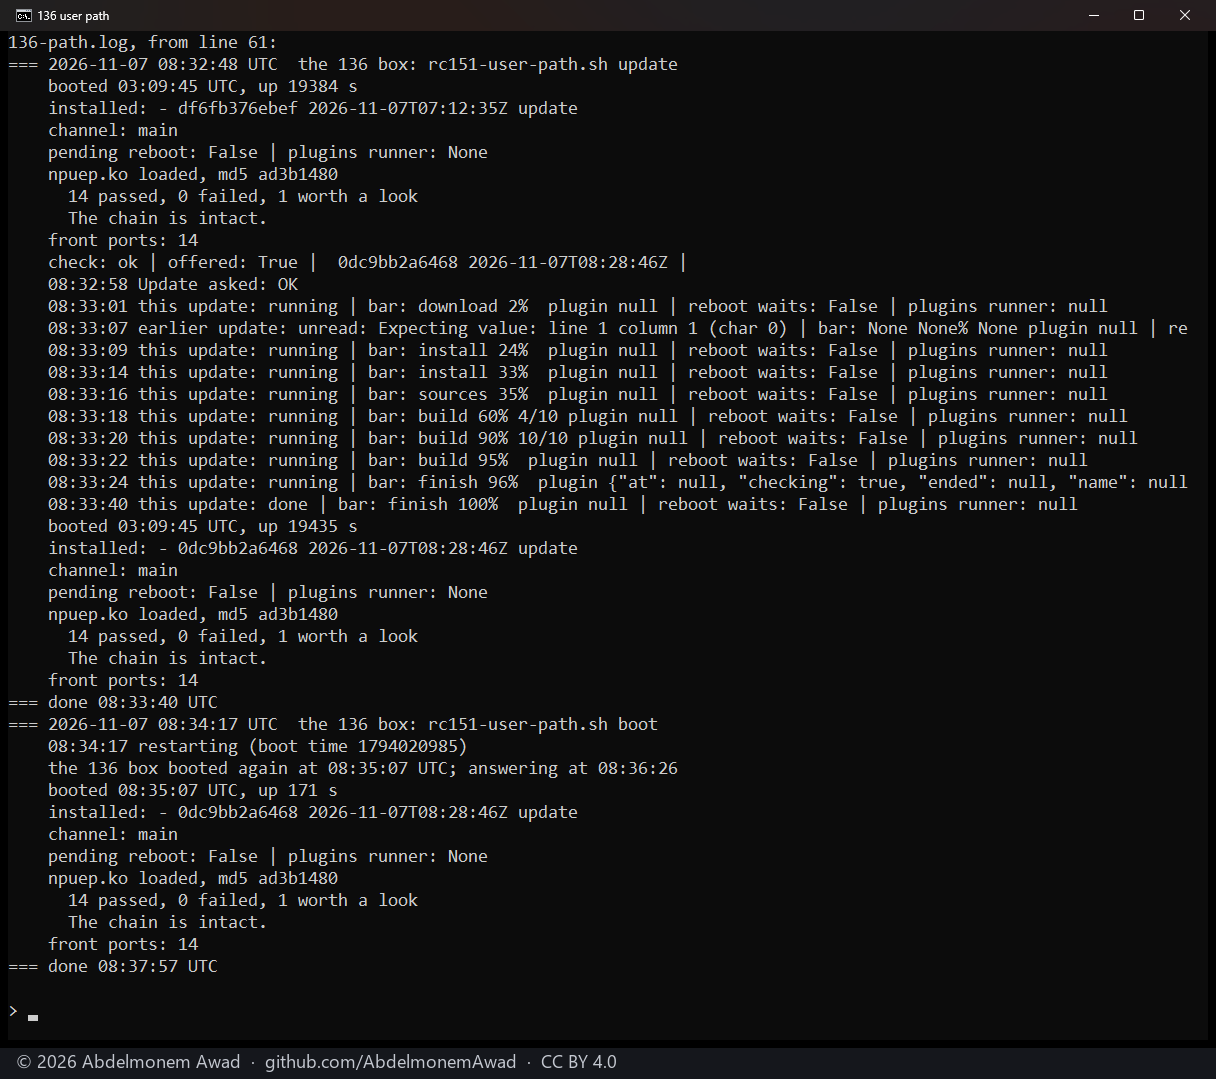
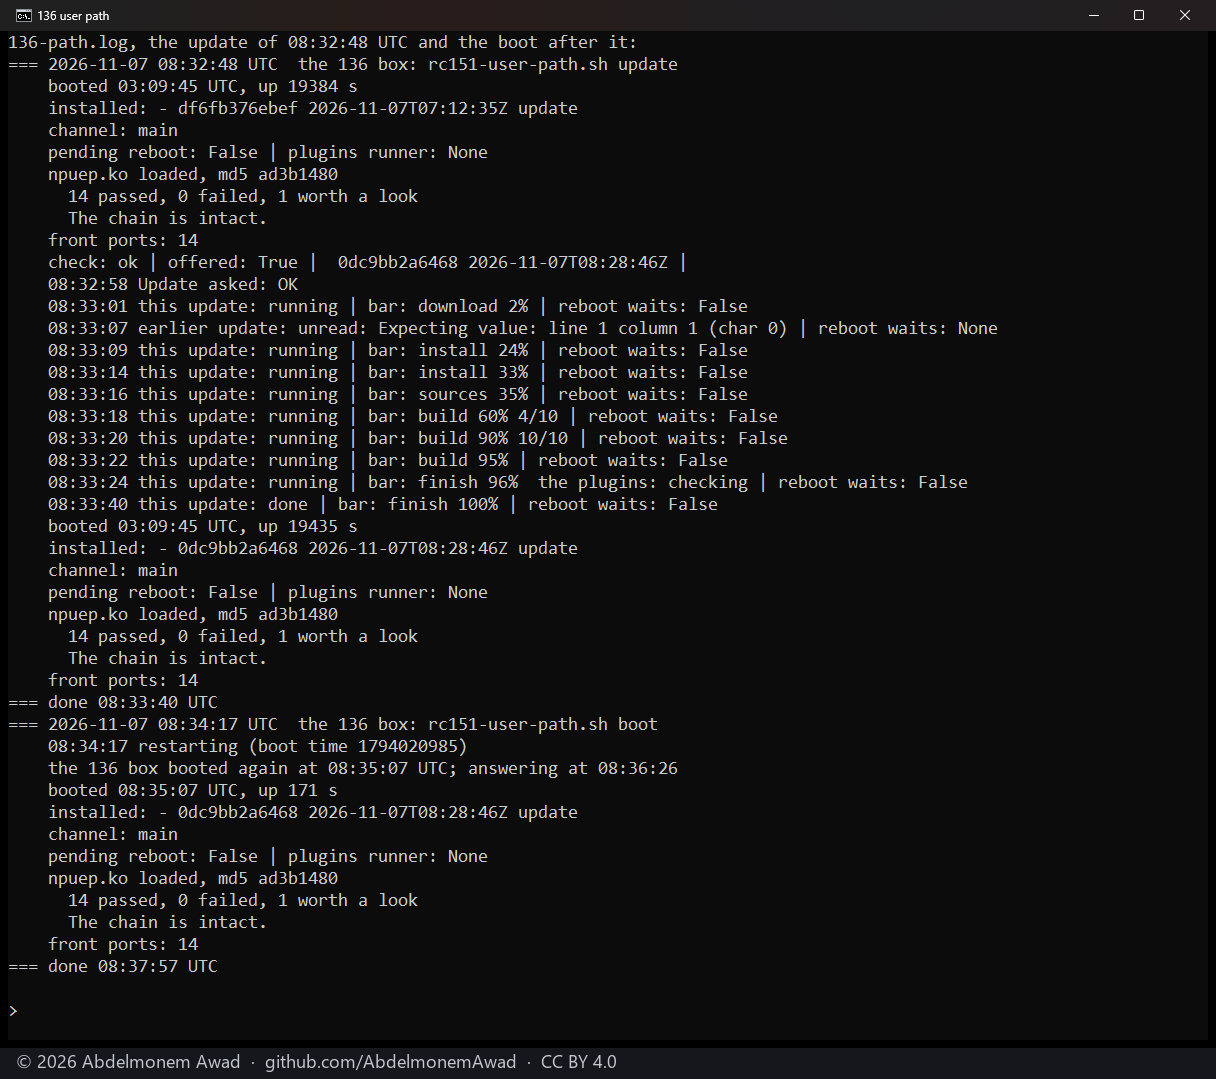
Measurements: the plugins' first signed releases, and photographs with their lines whole (#1139)
- **The plugins' first signed releases** (docs/measurements/signed-plugin-releases-2026-11-07.md, a section of its own): os-netreport 1.0.6 and eight more, published from 11:44 to 12:15 UTC, each signed by the owner's signing repository; the two faults of their release workflows on the way (a signing whose start had failed while the run said success, now fixed in the eleven plugins; seven signings started at once, four left drafts until one look signed them); and the three lab appliances taking them through the Plugins tab, each plugin then checking the published release with the release key. Two photographs.
- **Photographs with every value whole:** four photographs of the check before 0.1.0-alpha.15.1 (01, 02, 03 and 05) cut their longest lines at the window's edge, hashes and all. They are taken again at the same size and font; what repeats on every line and holds no value - "plugin null", "plugins runner: null" - is left out of the picture instead, and the logs they show are unchanged.

Tested: check-doc-links, check-doc-references, docs-index --check, images-index --check, mark-images --check and check-private-data pass; each photograph read at full size.

Changed region(s): [[0.4062, 0.2753, 0.9688, 0.4893], [0.125, 0.0306, 0.5, 0.0612]]

diff --git a/docs/images/README.md b/docs/images/README.md
@@ -19,10 +19,10 @@ to a new image, and the checks fail on one without them.
 |---|---|---|
 | [screens/](screens/) | The web interface, page by page, in English and in Arabic | 81 |
 | [hardware/](hardware/) | Photographs and drawings of the appliances, one folder each | 41 |
-| [measurements/](measurements/) | Each measurement's photographs, in a folder named after its page | 746 |
+| [measurements/](measurements/) | Each measurement's photographs, in a folder named after its page | 748 |
 | [readme/](readme/) | The README's banner and status board, drawn by tools/readme-art.py | 6 |
 
-913 images in all.
+915 images in all.
 
 ## The web interface
 
@@ -1228,7 +1228,7 @@ The page: [shaper-3300-2026-10-20.md](../measurements/shaper-3300-2026-10-20.md)
 | [01-before.png](measurements/shaper-3300-2026-10-20/01-before.png) | Before: a 100 Mbit/s shaper, the stream in hardware at 8,816 Mbit/s | [shaper-3300-2026-10-20.md](../measurements/shaper-3300-2026-10-20.md) |
 | [02-after.png](measurements/shaper-3300-2026-10-20/02-after.png) | After: the same shaper, the stream with the host at 99.5 Mbit/s | [shaper-3300-2026-10-20.md](../measurements/shaper-3300-2026-10-20.md) |
 
-### measurements/signed-plugin-releases-2026-11-07/ (9)
+### measurements/signed-plugin-releases-2026-11-07/ (11)
 
 The page: [signed-plugin-releases-2026-11-07.md](../measurements/signed-plugin-releases-2026-11-07.md).
 
@@ -1243,6 +1243,8 @@ The page: [signed-plugin-releases-2026-11-07.md](../measurements/signed-plugin-r
 | [07-all-eleven-installed-as-signed-first-3300.png](measurements/signed-plugin-releases-2026-11-07/07-all-eleven-installed-as-signed-first-3300.png) | All eleven plugins installed as signed | [signed-plugin-releases-2026-11-07.md](../measurements/signed-plugin-releases-2026-11-07.md) |
 | [08-a-plugin-not-here-not-signed-yet-first-3300.png](measurements/signed-plugin-releases-2026-11-07/08-a-plugin-not-here-not-signed-yet-first-3300.png) | A plugin that is not here, whose latest release is not signed: listed with the reason, Install not offered | [signed-plugin-releases-2026-11-07.md](../measurements/signed-plugin-releases-2026-11-07.md) |
 | [09-a-plugin-not-here-installed-as-signed-first-3300.png](measurements/signed-plugin-releases-2026-11-07/09-a-plugin-not-here-installed-as-signed-first-3300.png) | The same plugin installed by Install from its signed archive | [signed-plugin-releases-2026-11-07.md](../measurements/signed-plugin-releases-2026-11-07.md) |
+| [10-nine-releases-taken-by-the-three.png](measurements/signed-plugin-releases-2026-11-07/10-nine-releases-taken-by-the-three.png) | The three lab appliances taking the nine releases by Update all: each plugin at its release's commit | [signed-plugin-releases-2026-11-07.md](../measurements/signed-plugin-releases-2026-11-07.md) |
+| [11-new-self-update-checks-the-release-key.png](measurements/signed-plugin-releases-2026-11-07/11-new-self-update-checks-the-release-key.png) | Each appliance's new self-update.py of three plugins, asked to check: the release installed, its signature verified with the release key, the one key it carries | [signed-plugin-releases-2026-11-07.md](../measurements/signed-plugin-releases-2026-11-07.md) |
 
 ### measurements/signed-releases-2026-11-07/ (5)
 

diff --git a/docs/measurements/signed-plugin-releases-2026-11-07.md b/docs/measurements/signed-plugin-releases-2026-11-07.md
@@ -145,3 +145,31 @@ Afterwards os-portguard v1.0.1 was installed again from its tag, and its `self-u
 it had been, by its MD5. The lab's files, places and key were taken away, and main's `plugins.py` was
 put back. Without an appliance, `tools/test-plugin-install.py` runs 20 checks of the same, with
 throwaway keys.
+
+## The releases
+
+The same day nine of them were released, each signed with the release key: os-netreport 1.0.6, os-fanctl
+1.1.7, os-frontpanel 1.0.7, os-linkhealth 1.0.8, os-watchdog 1.0.3, os-kernelfollow 1.0.4, os-blocklists
+1.0.2, os-portguard 1.0.2 and os-fallbackcrypto 1.0.2, published from 11:44 to 12:15 UTC. Each release's
+workflow built its package and made the release a draft; the owner's signing repository signed it and
+published it, its archive, its manifest and the manifest's signature beside the package. opnsense-arabic
+and opnsense-rtl carry the same change and have no release of it yet.
+
+Two faults on the way, both in the release workflows, none in what an appliance runs:
+
+- os-netreport's run started no signing and still said success: `gh workflow run` asked for the signing
+  repository's default branch, which its token may not read. Its signing was started by hand; in all
+  eleven plugins the start now names the branch, and a start that fails fails the run.
+- Seven tags pushed within a minute started seven signings. The signing repository signs one at a time,
+  and GitHub keeps only the newest of the runs waiting, so four releases stayed drafts until one look over
+  the family signed them, at 12:15.
+
+Then each lab appliance took them through XGS: Updates' Plugins tab, Check and Update all: nine plugins in
+65 s on each XGS 3300, eight in 59 s on the XGS 136, which has no front panel. What was installed ran the
+`self-update.py` from before signed releases, so each took its release the old way, once. Afterwards each
+plugin carries the release key, and its new `self-update.py`, asked to check, verifies the published release
+with it.
+
+![The three lab appliances taking the nine releases by Update all: each plugin at its release's commit](../images/measurements/signed-plugin-releases-2026-11-07/10-nine-releases-taken-by-the-three.png)
+
+![Each appliance's new self-update.py of three plugins, asked to check: the release installed, its signature verified with the release key, the one key it carries](../images/measurements/signed-plugin-releases-2026-11-07/11-new-self-update-checks-the-release-key.png)
